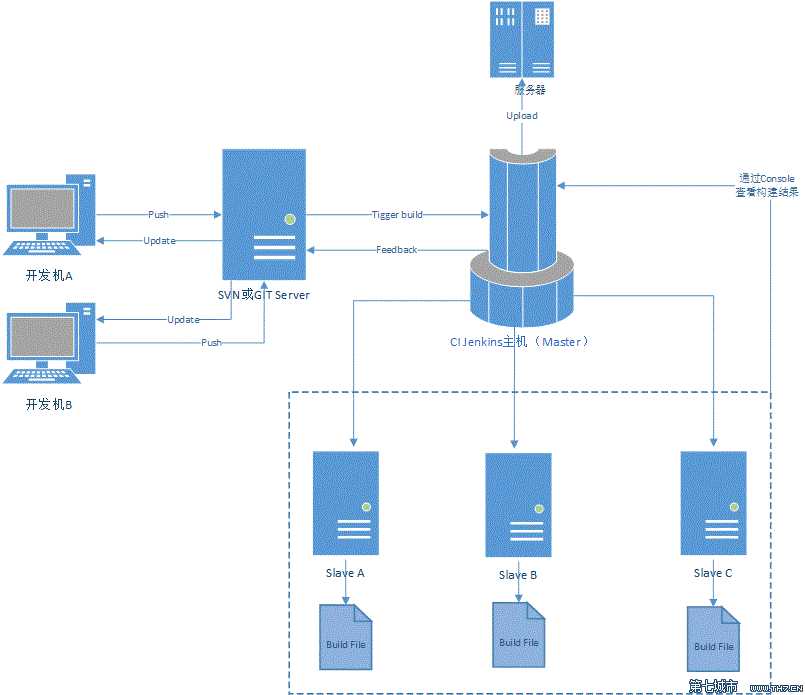
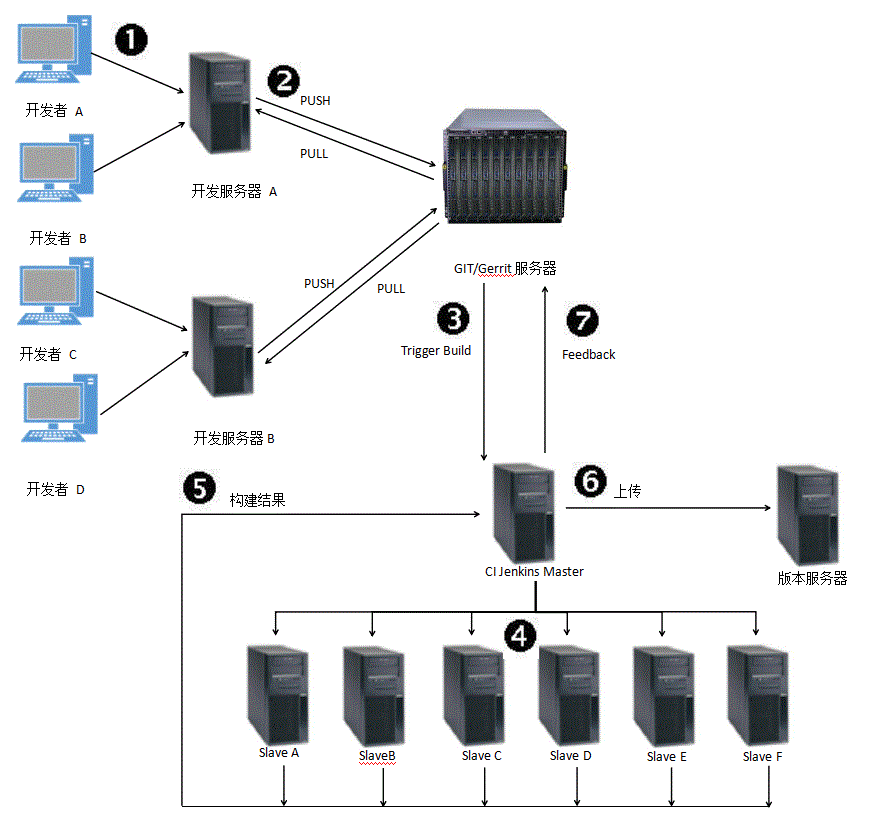
增加开发流程及说明

diff --git a/CI/敏捷&迭代：走在精益开发的路上.md b/CI/敏捷&迭代：走在精益开发的路上.md
@@ -1,7 +1,17 @@
-注： 思路还未整理清楚，先把要点罗列一下。
-
-期望： 把公司的开发方法串联起来
-
+# 敏捷&迭代： 走在精益开发的路上
+    敏捷与迭代是两个非常大的课题。窃以为，通过实践的过程，逐步剖析。防止理论过于空洞，我采用自底向上的方法以开发的实际过程为切入点。欢迎大家一起交流
+    
+## 简要介绍一下当前开发的流程
+    ![](./../image/CI.png)
+    
+    具体说来：
+    * 对于每一个开发者来说，在自己的云上完成迭代任务的需求澄清，分析文档及代码后，将代码经过程1推送到开发服务器上，进行编译链接，产生新的版本
+    * 开发者使用自己编译出的版本进行本地测试
+    * 验证后，开发者将代码推送到Git/Gerrit服务器， 该服务器提供两类服务：一是进行代码的评审，构建结果信息展示；二是代码托管
+    * 开发者将代码上传到GIT服务器后， 再触发构建命令
+    * 构建时，CI Jenkins的Master机器通过首先check out一份代码，并通过动态管理技术，在不同的Slave机器上执行不同的任务（编译任务， Pclint检查任务，圈复杂度检查，fortify&coverity任务， UT/ST工程任务等）
+    * 待所有任务均执行完后，将执行的结果汇总到Jenkins Master机器，并发送到Gerrit服务器，便于开发者及代码检视者看到构建的结果
+    * 如果构建成功，将会把构建出的版本上传到版本服务器
 
 # GIT
     Git is a VCS (Version Control System) for tracking changes in computer files 
@@ -42,7 +52,7 @@
     integrates closely with Git, a distributed version control system.
 
 
-问一下高趁，我们开发中所使用的git服务器与gerrit服务器
+当前开发中所使用1台服务器用于搭建git与gerrit。
 
 # Jenkins
 
@@ -52,9 +62,7 @@
     helps to automate the non-human part of software development process
     
 
-整个开发流程：
 
-![](./../image/CI.png)
 
 
 

diff --git a/CI/Git操作.md b/CI/Git操作.md
@@ -1,0 +1,36 @@
+先罗列知识点：
+1. -后面使用简写；--后面使用全名
+    git -v    <====> git --version
+    git commit -m "Fixed a typo"  <====> git commit --message="Fixed a type"
+2. GIT的优点
+
+3. GIT的安装（主要讲一下linux环境下)
+
+    $cd git-1.7.9
+
+    $./configure
+
+    $make all
+
+    $make install
+
+4. GIT confiure信息
+
+
+5. GIT的增，删，改，查
+
+6. GIT BRANCH
+
+7. GIT DIFF
+
+8. GIT MERGE
+
+9. GIT更改提交
+    讲一下B/W的BBIT。（为什么使用这种方法？效率高，且需要同时编译版本）
+
+    zs, lzq, yp的代码提交与合并
+    =====================================================》 
+
+
+10. GIT STASH
+    用stash 还是用 cherry-pick。 取决于任务的紧急程度与代码量。
